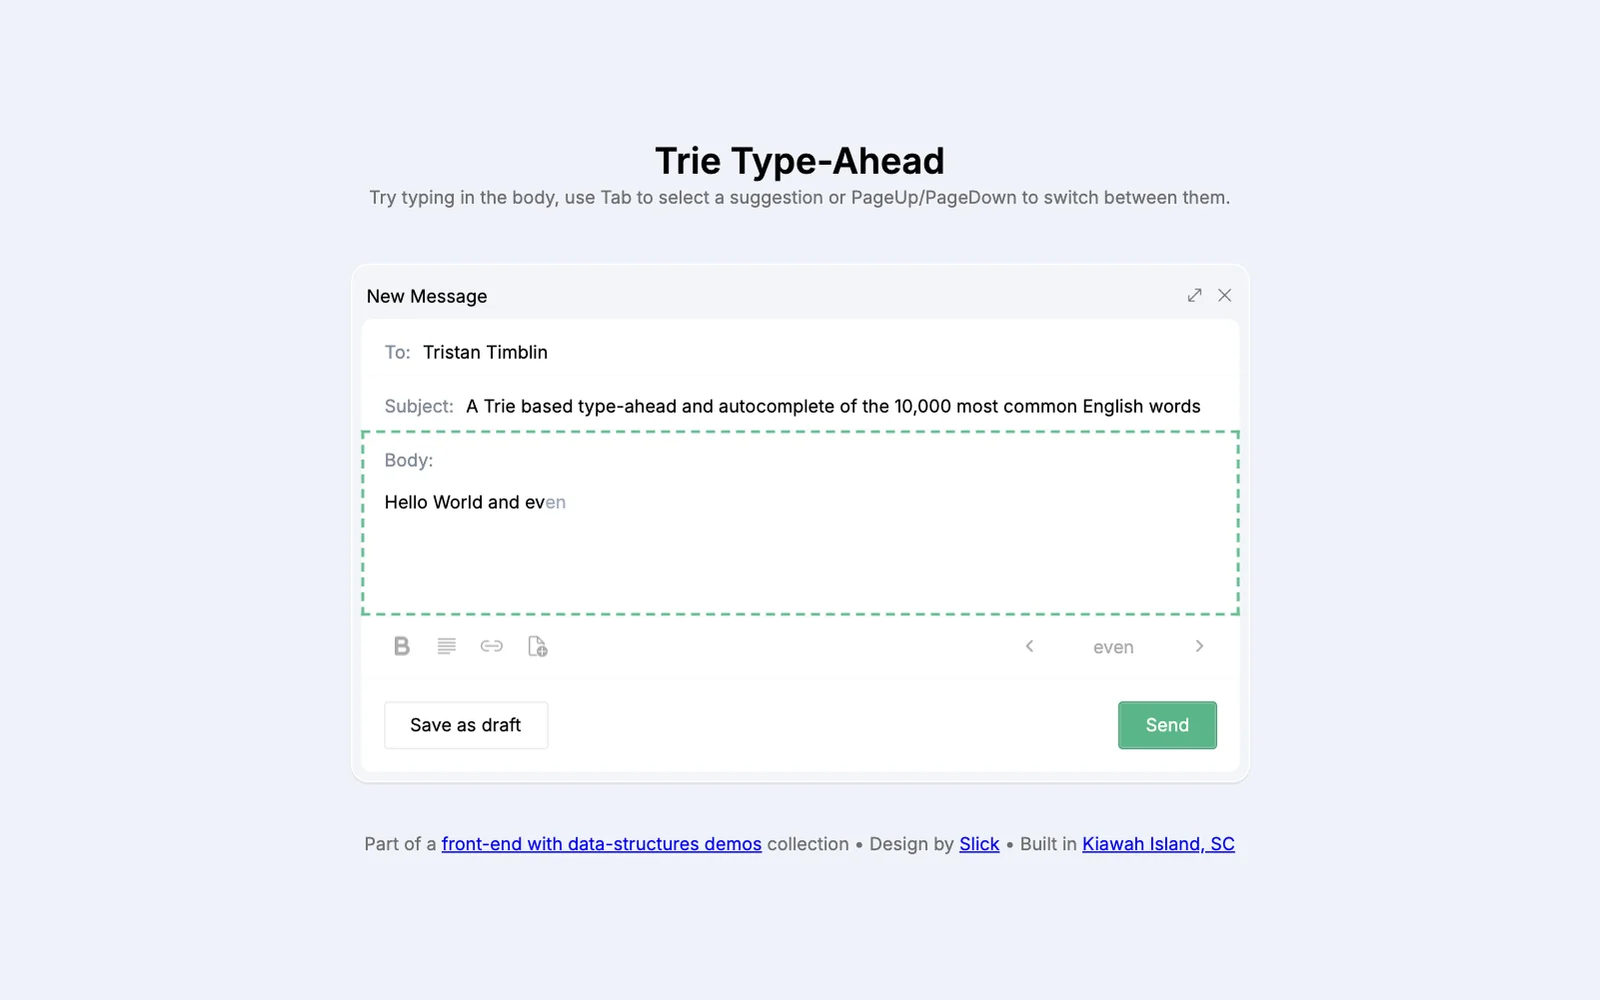
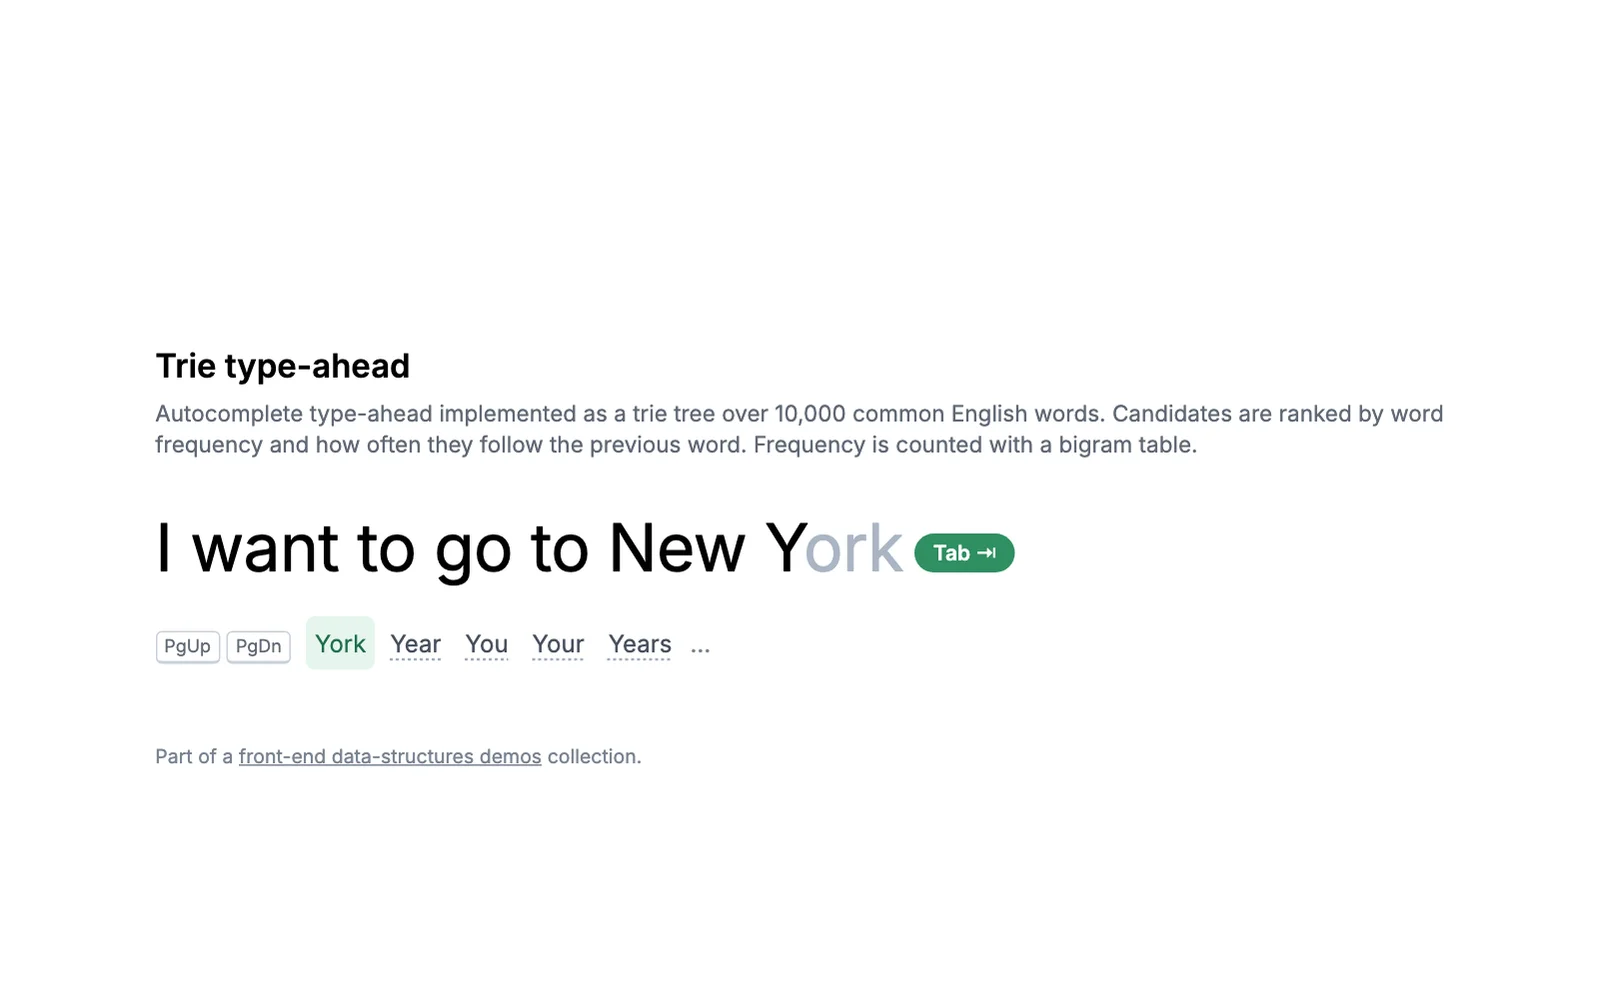
Trie demo: start with the panel closed (#102)

diff --git a/tests/demo.spec.ts b/tests/demo.spec.ts
@@ -205,6 +205,18 @@ test.describe("/demo/trie-autocomplete/", () => {
 		await expect(page.getByRole("region", { name: "Trie type-ahead, a live scene" })).toBeVisible();
 	});
 
+	test("starts with its panel closed (panel: closed); the info button opens it", async ({ page }) => {
+		await serveEmbed(page, "trie-autocomplete", "embed-stub-dom.js");
+		await page.goto(TRIE);
+		const panel = page.locator("[data-demo-panel]");
+		const reopen = page.getByRole("button", { name: "Show demo details" });
+		await expect(panel).toBeHidden();
+		await expect(reopen).toBeVisible();
+		await reopen.click();
+		await expect(panel).toBeVisible();
+		await expect(panel.getByRole("heading", { level: 1, name: "Trie type-ahead" })).toBeVisible();
+	});
+
 	test("leaves the module's own images alone: only the poster fills the frame", async ({ page }) => {
 		await serveEmbed(page, "trie-autocomplete", "embed-stub-dom.js");
 		await page.goto(TRIE);

diff --git a/src/content.config.ts b/src/content.config.ts
@@ -76,6 +76,9 @@ const demos = defineCollection({
 				// Short text behind the panel's info toggle.
 				notes: z.string().optional(),
 				credits: z.string().optional(),
+				// `closed`: the page opens with the panel hidden behind its info
+				// button, for a demo with its own heading and text to show.
+				panel: z.enum(["open", "closed"]).default("open"),
 				draft: z.boolean().default(false),
 			})
 			.strict(),

diff --git a/src/content/demos/trie-autocomplete.md b/src/content/demos/trie-autocomplete.md
@@ -1,13 +1,14 @@
 ---
 title: "Trie type-ahead"
-description: "Autocomplete the 10,000 most common English words as you type, searched in a trie."
+description: "Autocomplete type-ahead implemented as a trie tree over 10,000 common English words. Candidates are ranked by word frequency and how often they follow the previous word. Frequency is counted with a bigram table."
 date: 2023-11-04
 tags: ["data-structures", "svelte", "typescript"]
 embed: trie-autocomplete
+panel: closed
 poster:
   src: ./images/trie-autocomplete.webp
-  alt: "A New Message compose window on a pale blue page under the heading Trie Type-Ahead: To Tristan Timblin, a subject line, and a dashed green body field reading Hello World and ev, finished in light gray as even, which the toolbar below offers between left and right arrows, above Save as draft and a green Send button"
-notes: "Type in the body: the rest of the word you're on appears in light gray. Tab, or a click on the gray text, accepts it; PageUp/PageDown or the arrows by the toolbar's suggestion cycle through the other matches."
-credits: "Part of a front-end data-structures collection; the trie is @tristimb/data-structures. Design after Slick's compose widget on Dribbble."
+  alt: "A white page under the heading Trie type-ahead: the large line I want to go to New Y, finished in light gray as York beside a green Tab button, with York, Year, You, Your and Years offered below"
+notes: "It types a sentence by itself, taking each word as soon as it's suggested; tap the sentence to take over. The gray letters finish the word you're on: Tab or the green button accepts them, and PageUp/PageDown or a tap on another word picks a different match."
+credits: "Part of a front-end data-structures collection; the trie is @tristimb/data-structures. Next-word counts from Tatoeba (CC BY 2.0 FR)."
 draft: false
 ---
